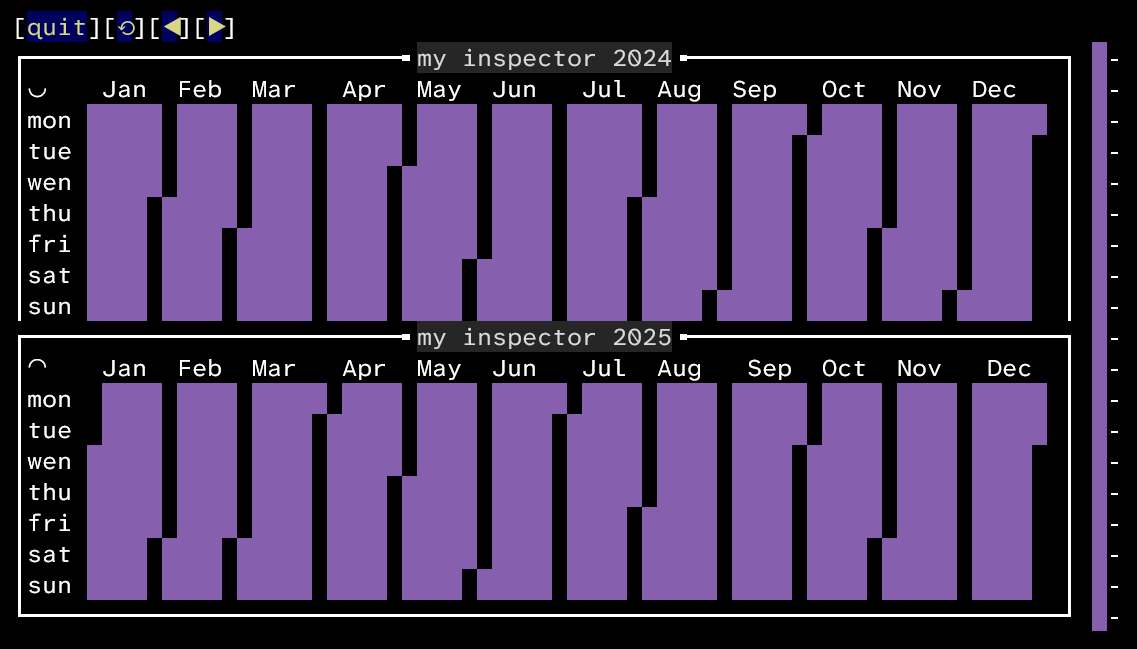
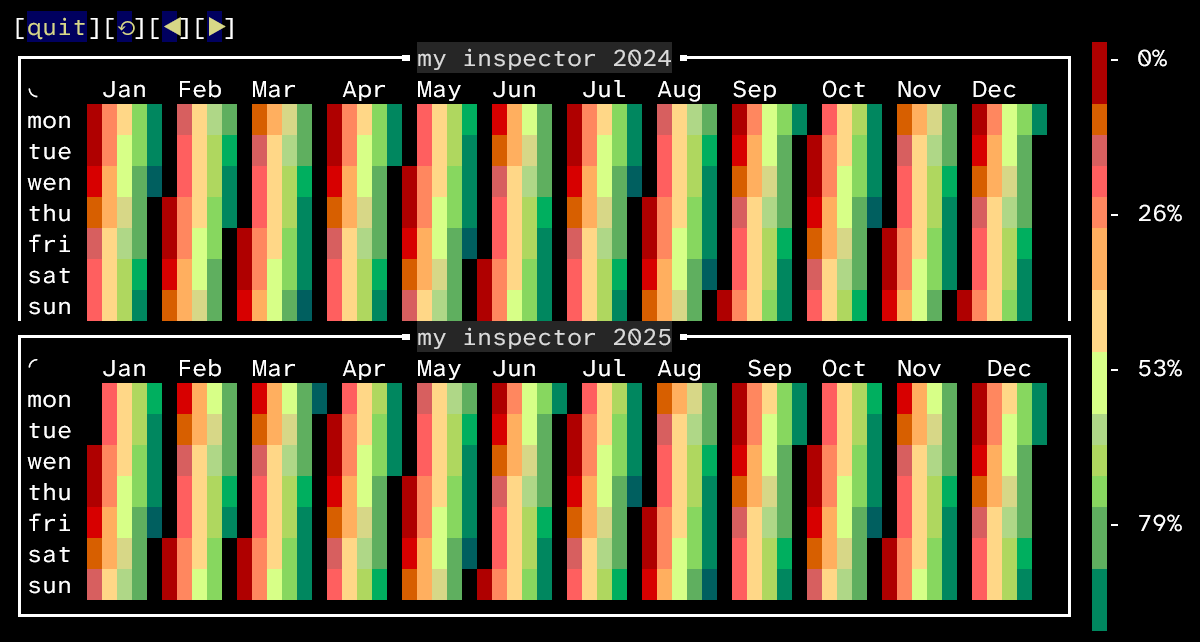
update readme

diff --git a/README.md b/README.md
@@ -2,11 +2,15 @@
 Terminal interface to visualise calendar data.
 
 **Features**:
-- Terminal User Interface that displays a calendar with different colors for each date.
-- Allows to click on a date to reveal a popup with more informations about this date.
-- Color bar and file count widget ready to use.
-- Multiprocessing computing of the calendar.
-- 🚀 Requires you to implement a single class to adapt to your project.
+- 📆 Terminal calendar view that colors each day according to your data.
+- 🔍 Click any date to reveal a popup with its details.
+- Multiple calendars in a single app.
+- Ready-to-use color bar and file count widgets.
+- 🌈 Color maps to get you started, plus a built-in `FileCountInspector` you can
+  reuse or subclass for your own dataset.
+- ⚡ Multiprocessing computing to speed up calendar initialisation on large datasets.
+- 🐛 Easy to debug, stack traces are shown in the UI instead of failing silently.
+- 🚀 Adapt it to your data by implementing a single [`InspectorABC`](https://github.com/meteofrance/calendardataviz/blob/main/calendardataviz/inspector_abc.py) class.
 
 ![](https://github.com/meteofrance/calendardataviz/blob/main/doc/images/calendar_data_vizualisation.png?raw=true)
 _Calendar implemented to show the the number of files present for each dates of the years 2024, 2025 and 2026, with a popup showing informations for the date 10/10/2025_
@@ -229,6 +233,7 @@ To format then test your code:
 ```
 uvx ruff format
 uvx ruff check --fix
+uv run pyright
 uv run pytest -s
 ```
 
